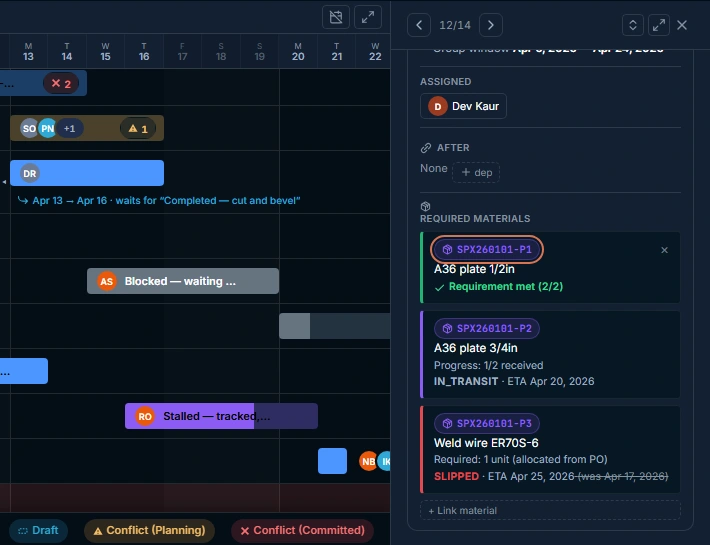
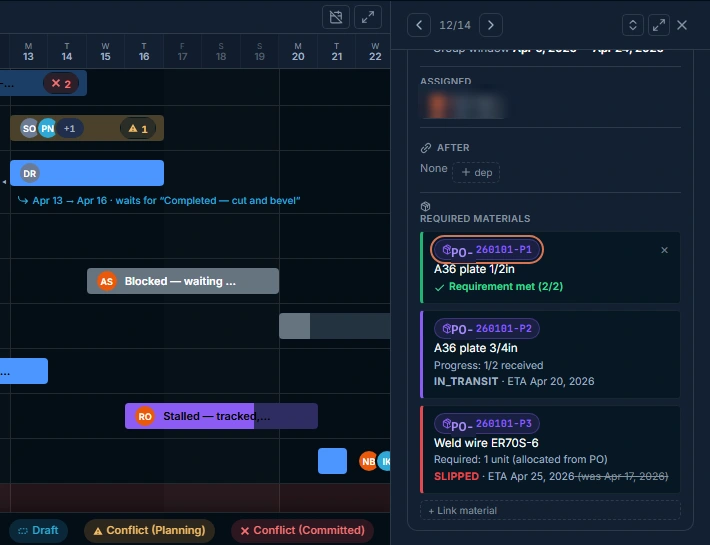
Refine the asset redactions: replace rather than obliterate
The CAD hero previously had its document pane pixelated, which hid the
split-pane review the screenshot exists to demonstrate. The customer
specification is now replaced in the pixels with a generic equivalent:
a neutral division wordmark, and a title, document number, owner and
department that read as a real controlled document without being one.
The internal UUID filename is rewritten in all three places it appears.

The shop monitor no longer has its whole screen pixelated. Only the
SharePoint URL, the document title, the repeated schedule number and
the facility logo are masked. The grid, the hand-coloured cells, the
timeline dates and the checkmarks stay legible, which is the whole
reason the photograph is in the case study.

The task drawer badges keep their pill, border, hue and cube icon.
Only the three-character prefix is repainted, so they now read
PO-260101-P1 through P3. The assignee name is softened out.

All three are burned into the files, not overlaid.

diff --git a/app/work/jeevy-os/deliverables-map-dashboard/page.tsx b/app/work/jeevy-os/deliverables-map-dashboard/page.tsx
@@ -201,7 +201,7 @@ export default function DeliverablesMapDashboardPage() {
         <Figure
           src="/jeevy/dm-legacy-shop-monitor.webp"
           alt="A photograph of a partner facility shop floor monitor running the legacy project status report as a colour-coded Excel workbook"
-          caption="The baseline: a project status workbook on a shop monitor, its tabs and hand-coloured cells kept deliberately illegible. This photograph was the feature request."
+          caption="The baseline: a project status workbook on a shop monitor. Ten disconnected tabs, hand-coloured cells and a manually maintained timeline, with the facility identifiers masked. This photograph was the feature request."
           width={1920}
           height={1440}
         />
